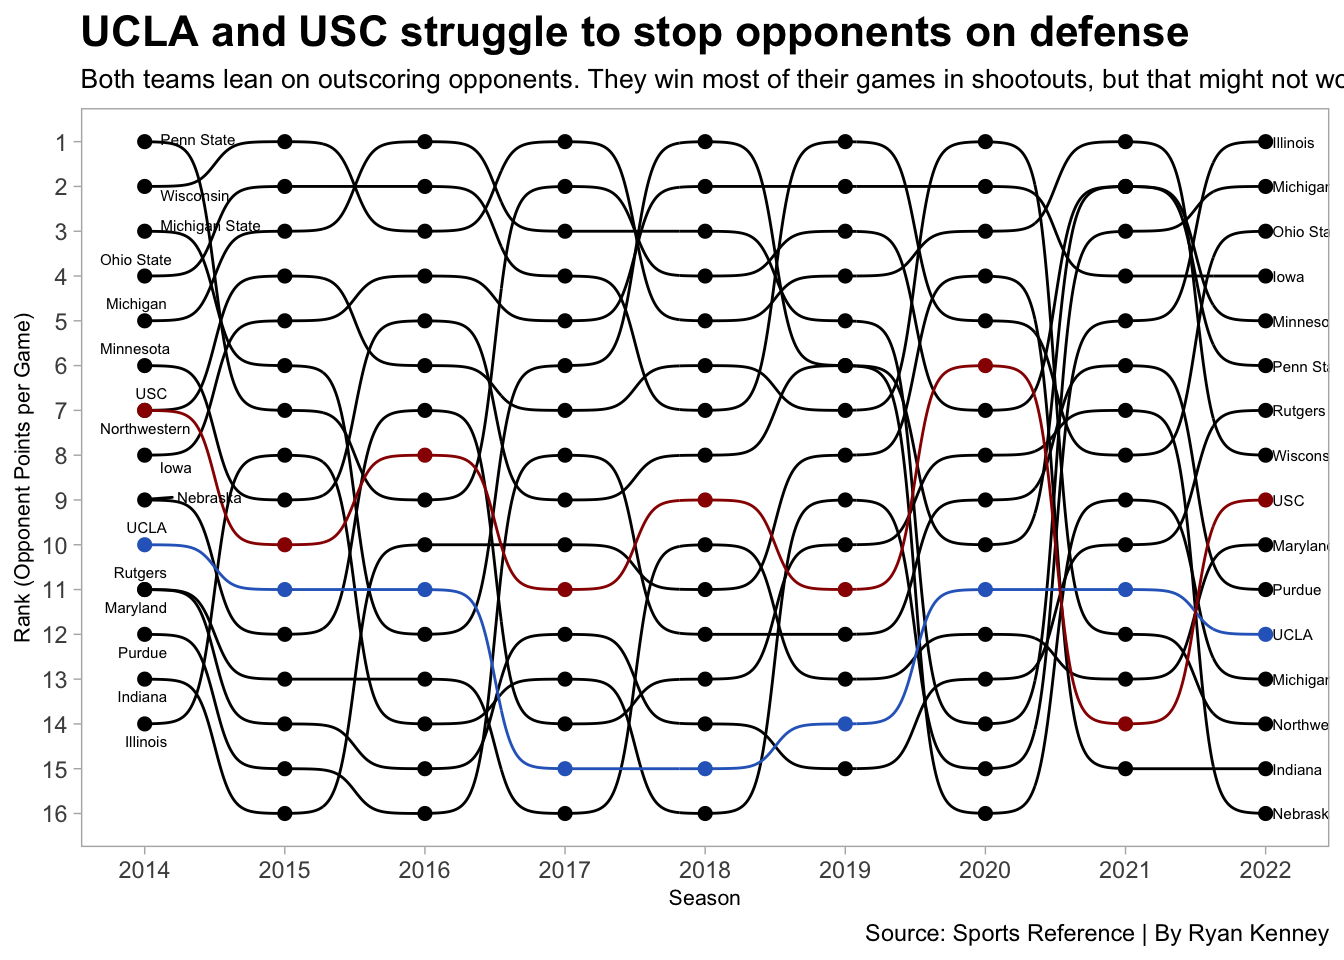
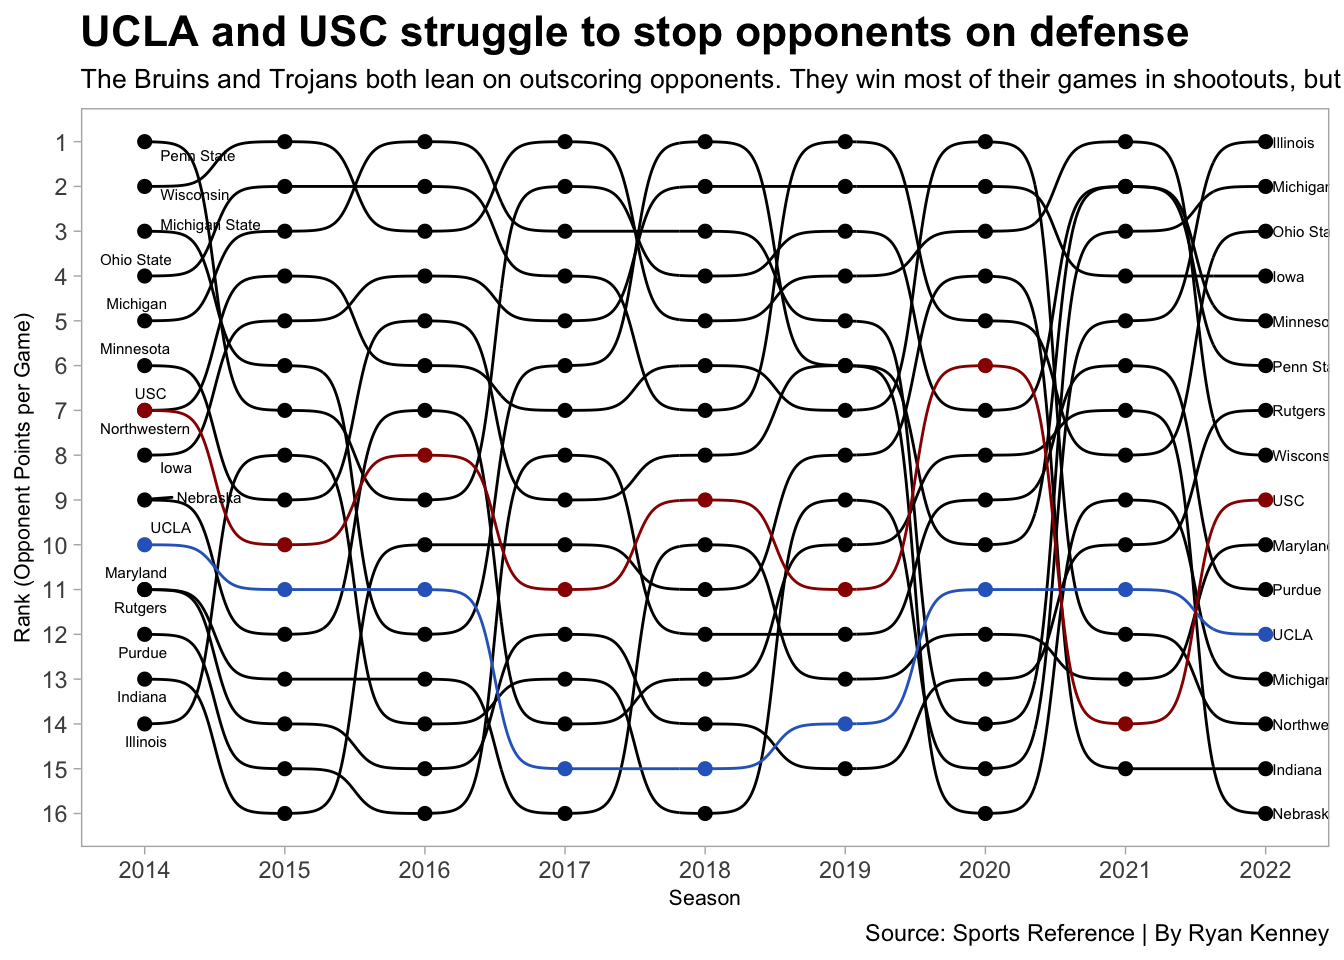
again

diff --git a/posts/ucla-and-usc-meet-big-ten-style-football/index.html b/posts/ucla-and-usc-meet-big-ten-style-football/index.html
@@ -344,7 +344,7 @@ code span.wa { color: #60a0b0; font-weight: bold; font-style: italic; } /* Warni
 <span id="cb2-20"><a href="#cb2-20" aria-hidden="true" tabindex="-1"></a>  </span>
 <span id="cb2-21"><a href="#cb2-21" aria-hidden="true" tabindex="-1"></a>  <span class="fu">scale_y_reverse</span>(<span class="at">breaks=</span><span class="fu">c</span>(<span class="dv">1</span>,<span class="dv">2</span>,<span class="dv">3</span>,<span class="dv">4</span>,<span class="dv">5</span>,<span class="dv">6</span>,<span class="dv">7</span>,<span class="dv">8</span>,<span class="dv">9</span>,<span class="dv">10</span>,<span class="dv">11</span>,<span class="dv">12</span>,<span class="dv">13</span>,<span class="dv">14</span>,<span class="dv">15</span>,<span class="dv">16</span>)) <span class="sc">+</span></span>
 <span id="cb2-22"><a href="#cb2-22" aria-hidden="true" tabindex="-1"></a>  </span>
-<span id="cb2-23"><a href="#cb2-23" aria-hidden="true" tabindex="-1"></a>  <span class="fu">labs</span>(<span class="at">title =</span> <span class="st">"UCLA and USC struggle to stop opponents on defense "</span>, <span class="at">subtitle=</span><span class="st">"Both teams lean on outscoring opponents. They win most of their games in shootouts, but that might not work against some of the stifling Big Ten defenses."</span>, <span class="at">y=</span><span class="st">"Rank (Opponent Points per Game)"</span>, <span class="at">x=</span><span class="st">"Season"</span>, <span class="at">caption=</span><span class="st">"Source: Sports Reference | By Ryan Kenney"</span>) <span class="sc">+</span></span>
+<span id="cb2-23"><a href="#cb2-23" aria-hidden="true" tabindex="-1"></a>  <span class="fu">labs</span>(<span class="at">title =</span> <span class="st">"UCLA and USC struggle to stop opponents on defense "</span>, <span class="at">subtitle=</span><span class="st">"The Bruins and Trojans both lean on outscoring opponents. They win most of their games in shootouts, but that might not work against some of the stifling Big Ten defenses."</span>, <span class="at">y=</span><span class="st">"Rank (Opponent Points per Game)"</span>, <span class="at">x=</span><span class="st">"Season"</span>, <span class="at">caption=</span><span class="st">"Source: Sports Reference | By Ryan Kenney"</span>) <span class="sc">+</span></span>
 <span id="cb2-24"><a href="#cb2-24" aria-hidden="true" tabindex="-1"></a>  </span>
 <span id="cb2-25"><a href="#cb2-25" aria-hidden="true" tabindex="-1"></a><span class="fu">theme_light</span>()<span class="sc">+</span></span>
 <span id="cb2-26"><a href="#cb2-26" aria-hidden="true" tabindex="-1"></a> <span class="fu">theme</span>(</span>
@@ -359,6 +359,10 @@ code span.wa { color: #60a0b0; font-weight: bold; font-style: italic; } /* Warni
 <div class="cell-output-display">
 <p><img src="index_files/figure-html/unnamed-chunk-2-1.png" class="img-fluid" width="672"></p>
 </div>
+<details>
+<summary>Code</summary>
+<div class="sourceCode cell-code" id="cb3"><pre class="sourceCode r code-with-copy"><code class="sourceCode r"><span id="cb3-1"><a href="#cb3-1" aria-hidden="true" tabindex="-1"></a>  <span class="fu">options</span>(<span class="at">repr.plot.width=</span><span class="dv">23</span>)</span></code><button title="Copy to Clipboard" class="code-copy-button"><i class="bi"></i></button></pre></div>
+</details>
 </div>
 <p>Not too great. UCLA consistently hangs out with the Big Ten defenses that give up the most points per game. USC isn’t much better, peaking at sixth-best in 2020 before plummeting to the second-worst in 2021.</p>
 <p>All of a sudden, it’s not looking as promising for the newcomers. Plus, many argue the Pac-12 is a step down in competition, so these aren’t even fair comparisons in the first place. Pac-12 teams have struggled to take the leap into elite territory. Only one team from the conference has made the College Football Playoff since its start, and it was the Oregon Ducks in the the Playoff’s first year (2014). Ironically, the Ducks fell in a 22-point loss to the Big Ten’s very own Ohio State Buckeyes.</p>
@@ -366,53 +370,53 @@ code span.wa { color: #60a0b0; font-weight: bold; font-style: italic; } /* Warni
 <div class="cell">
 <details>
 <summary>Code</summary>
-<div class="sourceCode cell-code" id="cb3"><pre class="sourceCode r code-with-copy"><code class="sourceCode r"><span id="cb3-1"><a href="#cb3-1" aria-hidden="true" tabindex="-1"></a>ucla <span class="ot">&lt;-</span> bigten22 <span class="sc">%&gt;%</span> <span class="fu">filter</span>(Team <span class="sc">==</span> <span class="st">"UCLA"</span>)</span>
-<span id="cb3-2"><a href="#cb3-2" aria-hidden="true" tabindex="-1"></a>usc <span class="ot">&lt;-</span> bigten22 <span class="sc">%&gt;%</span> <span class="fu">filter</span>(Team <span class="sc">==</span> <span class="st">"USC"</span>)</span>
-<span id="cb3-3"><a href="#cb3-3" aria-hidden="true" tabindex="-1"></a></span>
-<span id="cb3-4"><a href="#cb3-4" aria-hidden="true" tabindex="-1"></a><span class="fu">ggplot</span>() <span class="sc">+</span> </span>
-<span id="cb3-5"><a href="#cb3-5" aria-hidden="true" tabindex="-1"></a>  <span class="fu">geom_point</span>(</span>
-<span id="cb3-6"><a href="#cb3-6" aria-hidden="true" tabindex="-1"></a>    <span class="at">data=</span>bigten22, </span>
-<span id="cb3-7"><a href="#cb3-7" aria-hidden="true" tabindex="-1"></a>    <span class="fu">aes</span>(<span class="at">x=</span>SRS, <span class="at">y=</span>SOS, <span class="at">size=</span>W), </span>
-<span id="cb3-8"><a href="#cb3-8" aria-hidden="true" tabindex="-1"></a>    <span class="at">color=</span><span class="st">"black"</span>, </span>
-<span id="cb3-9"><a href="#cb3-9" aria-hidden="true" tabindex="-1"></a>    <span class="at">alpha=</span>.<span class="dv">3</span>) <span class="sc">+</span> </span>
-<span id="cb3-10"><a href="#cb3-10" aria-hidden="true" tabindex="-1"></a>  <span class="fu">geom_point</span>(</span>
-<span id="cb3-11"><a href="#cb3-11" aria-hidden="true" tabindex="-1"></a>    <span class="at">data=</span>bigten22, </span>
-<span id="cb3-12"><a href="#cb3-12" aria-hidden="true" tabindex="-1"></a>    <span class="fu">aes</span>(<span class="at">x=</span>SRS, <span class="at">y=</span>SOS, <span class="at">size=</span>W), </span>
-<span id="cb3-13"><a href="#cb3-13" aria-hidden="true" tabindex="-1"></a>    <span class="at">color=</span><span class="st">"gray25"</span>) <span class="sc">+</span> </span>
-<span id="cb3-14"><a href="#cb3-14" aria-hidden="true" tabindex="-1"></a>  <span class="fu">geom_point</span>(</span>
-<span id="cb3-15"><a href="#cb3-15" aria-hidden="true" tabindex="-1"></a>    <span class="at">data=</span>ucla, </span>
-<span id="cb3-16"><a href="#cb3-16" aria-hidden="true" tabindex="-1"></a>    <span class="fu">aes</span>(<span class="at">x=</span>SRS, <span class="at">y=</span>SOS, <span class="at">size=</span>W), </span>
-<span id="cb3-17"><a href="#cb3-17" aria-hidden="true" tabindex="-1"></a>    <span class="at">color=</span><span class="st">"#2D68C4"</span>) <span class="sc">+</span> </span>
-<span id="cb3-18"><a href="#cb3-18" aria-hidden="true" tabindex="-1"></a>  <span class="fu">geom_point</span>(</span>
-<span id="cb3-19"><a href="#cb3-19" aria-hidden="true" tabindex="-1"></a>    <span class="at">data=</span>usc, </span>
-<span id="cb3-20"><a href="#cb3-20" aria-hidden="true" tabindex="-1"></a>    <span class="fu">aes</span>(<span class="at">x=</span>SRS, <span class="at">y=</span>SOS, <span class="at">size=</span>W), </span>
-<span id="cb3-21"><a href="#cb3-21" aria-hidden="true" tabindex="-1"></a>    <span class="at">color=</span><span class="st">"#990000"</span>) <span class="sc">+</span> </span>
-<span id="cb3-22"><a href="#cb3-22" aria-hidden="true" tabindex="-1"></a>  <span class="fu">geom_vline</span>(<span class="at">xintercept =</span> <span class="fl">7.1025</span>) <span class="sc">+</span> </span>
-<span id="cb3-23"><a href="#cb3-23" aria-hidden="true" tabindex="-1"></a>  <span class="fu">geom_hline</span>(<span class="at">yintercept =</span> <span class="fl">0.97125</span>) <span class="sc">+</span></span>
-<span id="cb3-24"><a href="#cb3-24" aria-hidden="true" tabindex="-1"></a>  <span class="fu">geom_text</span>(<span class="fu">aes</span>(<span class="at">x=</span><span class="fl">20.5</span>, <span class="at">y=</span><span class="dv">6</span>, <span class="at">label=</span><span class="st">"Good SRS, Good SOS"</span>), <span class="at">color=</span><span class="st">"blue"</span>) <span class="sc">+</span></span>
-<span id="cb3-25"><a href="#cb3-25" aria-hidden="true" tabindex="-1"></a>  <span class="fu">geom_text</span>(<span class="fu">aes</span>(<span class="at">x=</span><span class="sc">-</span><span class="fl">4.5</span>, <span class="at">y=</span><span class="sc">-</span><span class="fl">2.8</span>, <span class="at">label=</span><span class="st">"Bad SRS, Bad SOS"</span>), <span class="at">color=</span><span class="st">"blue"</span>) <span class="sc">+</span></span>
-<span id="cb3-26"><a href="#cb3-26" aria-hidden="true" tabindex="-1"></a>  <span class="fu">geom_text_repel</span>(</span>
-<span id="cb3-27"><a href="#cb3-27" aria-hidden="true" tabindex="-1"></a>    <span class="at">data=</span>bigten22, </span>
-<span id="cb3-28"><a href="#cb3-28" aria-hidden="true" tabindex="-1"></a>    <span class="fu">aes</span>(<span class="at">x=</span>SRS, <span class="at">y=</span>SOS, <span class="at">label=</span>Team)</span>
-<span id="cb3-29"><a href="#cb3-29" aria-hidden="true" tabindex="-1"></a>  ) <span class="sc">+</span></span>
-<span id="cb3-30"><a href="#cb3-30" aria-hidden="true" tabindex="-1"></a>  <span class="fu">geom_encircle</span>(<span class="at">data=</span>usc, <span class="fu">aes</span>(<span class="at">x=</span>SRS<span class="fl">-0.2</span>, <span class="at">y=</span>SOS), <span class="at">s_shape=</span>.<span class="dv">01</span>, <span class="at">expand=</span>.<span class="dv">0000000001</span>, <span class="at">colour=</span><span class="st">"red"</span>) <span class="sc">+</span> </span>
-<span id="cb3-31"><a href="#cb3-31" aria-hidden="true" tabindex="-1"></a>  </span>
-<span id="cb3-32"><a href="#cb3-32" aria-hidden="true" tabindex="-1"></a>   <span class="fu">labs</span>(</span>
-<span id="cb3-33"><a href="#cb3-33" aria-hidden="true" tabindex="-1"></a>    <span class="at">x=</span><span class="st">"Simple Rating"</span>, </span>
-<span id="cb3-34"><a href="#cb3-34" aria-hidden="true" tabindex="-1"></a>    <span class="at">y=</span><span class="st">"Strength of Schedule"</span>, </span>
-<span id="cb3-35"><a href="#cb3-35" aria-hidden="true" tabindex="-1"></a>    <span class="at">title=</span><span class="st">"USC is passing tough tests this season"</span>, </span>
-<span id="cb3-36"><a href="#cb3-36" aria-hidden="true" tabindex="-1"></a>    <span class="at">subtitle=</span><span class="st">"USC has won six of seven games with a harder strength of schedule than any Big Ten team. "</span>, </span>
-<span id="cb3-37"><a href="#cb3-37" aria-hidden="true" tabindex="-1"></a>    <span class="at">caption=</span><span class="st">"Source: Sports Reference | By Ryan Kenney"</span>,</span>
-<span id="cb3-38"><a href="#cb3-38" aria-hidden="true" tabindex="-1"></a>    <span class="at">size=</span><span class="st">"Wins"</span></span>
-<span id="cb3-39"><a href="#cb3-39" aria-hidden="true" tabindex="-1"></a>    ) <span class="sc">+</span></span>
-<span id="cb3-40"><a href="#cb3-40" aria-hidden="true" tabindex="-1"></a>  </span>
-<span id="cb3-41"><a href="#cb3-41" aria-hidden="true" tabindex="-1"></a>  <span class="fu">theme_light</span>() <span class="sc">+</span></span>
-<span id="cb3-42"><a href="#cb3-42" aria-hidden="true" tabindex="-1"></a>  <span class="fu">theme</span>(</span>
-<span id="cb3-43"><a href="#cb3-43" aria-hidden="true" tabindex="-1"></a>    <span class="at">plot.title =</span> <span class="fu">element_text</span>(<span class="at">size =</span> <span class="dv">16</span>, <span class="at">face =</span> <span class="st">"bold"</span>),</span>
-<span id="cb3-44"><a href="#cb3-44" aria-hidden="true" tabindex="-1"></a>    <span class="at">axis.title =</span> <span class="fu">element_text</span>(<span class="at">size =</span> <span class="dv">8</span>),</span>
-<span id="cb3-45"><a href="#cb3-45" aria-hidden="true" tabindex="-1"></a>    <span class="at">plot.subtitle =</span> <span class="fu">element_text</span>(<span class="at">size =</span> <span class="dv">10</span>),</span>
-<span id="cb3-46"><a href="#cb3-46" aria-hidden="true" tabindex="-1"></a>    <span class="at">panel.grid.minor =</span> <span class="fu">element_blank</span>()</span>
-<span id="cb3-47"><a href="#cb3-47" aria-hidden="true" tabindex="-1"></a>  )</span></code><button title="Copy to Clipboard" class="code-copy-button"><i class="bi"></i></button></pre></div>
+<div class="sourceCode cell-code" id="cb4"><pre class="sourceCode r code-with-copy"><code class="sourceCode r"><span id="cb4-1"><a href="#cb4-1" aria-hidden="true" tabindex="-1"></a>ucla <span class="ot">&lt;-</span> bigten22 <span class="sc">%&gt;%</span> <span class="fu">filter</span>(Team <span class="sc">==</span> <span class="st">"UCLA"</span>)</span>
+<span id="cb4-2"><a href="#cb4-2" aria-hidden="true" tabindex="-1"></a>usc <span class="ot">&lt;-</span> bigten22 <span class="sc">%&gt;%</span> <span class="fu">filter</span>(Team <span class="sc">==</span> <span class="st">"USC"</span>)</span>
+<span id="cb4-3"><a href="#cb4-3" aria-hidden="true" tabindex="-1"></a></span>
+<span id="cb4-4"><a href="#cb4-4" aria-hidden="true" tabindex="-1"></a><span class="fu">ggplot</span>() <span class="sc">+</span> </span>
+<span id="cb4-5"><a href="#cb4-5" aria-hidden="true" tabindex="-1"></a>  <span class="fu">geom_point</span>(</span>
+<span id="cb4-6"><a href="#cb4-6" aria-hidden="true" tabindex="-1"></a>    <span class="at">data=</span>bigten22, </span>
+<span id="cb4-7"><a href="#cb4-7" aria-hidden="true" tabindex="-1"></a>    <span class="fu">aes</span>(<span class="at">x=</span>SRS, <span class="at">y=</span>SOS, <span class="at">size=</span>W), </span>
+<span id="cb4-8"><a href="#cb4-8" aria-hidden="true" tabindex="-1"></a>    <span class="at">color=</span><span class="st">"black"</span>, </span>
+<span id="cb4-9"><a href="#cb4-9" aria-hidden="true" tabindex="-1"></a>    <span class="at">alpha=</span>.<span class="dv">3</span>) <span class="sc">+</span> </span>
+<span id="cb4-10"><a href="#cb4-10" aria-hidden="true" tabindex="-1"></a>  <span class="fu">geom_point</span>(</span>
+<span id="cb4-11"><a href="#cb4-11" aria-hidden="true" tabindex="-1"></a>    <span class="at">data=</span>bigten22, </span>
+<span id="cb4-12"><a href="#cb4-12" aria-hidden="true" tabindex="-1"></a>    <span class="fu">aes</span>(<span class="at">x=</span>SRS, <span class="at">y=</span>SOS, <span class="at">size=</span>W), </span>
+<span id="cb4-13"><a href="#cb4-13" aria-hidden="true" tabindex="-1"></a>    <span class="at">color=</span><span class="st">"gray25"</span>) <span class="sc">+</span> </span>
+<span id="cb4-14"><a href="#cb4-14" aria-hidden="true" tabindex="-1"></a>  <span class="fu">geom_point</span>(</span>
+<span id="cb4-15"><a href="#cb4-15" aria-hidden="true" tabindex="-1"></a>    <span class="at">data=</span>ucla, </span>
+<span id="cb4-16"><a href="#cb4-16" aria-hidden="true" tabindex="-1"></a>    <span class="fu">aes</span>(<span class="at">x=</span>SRS, <span class="at">y=</span>SOS, <span class="at">size=</span>W), </span>
+<span id="cb4-17"><a href="#cb4-17" aria-hidden="true" tabindex="-1"></a>    <span class="at">color=</span><span class="st">"#2D68C4"</span>) <span class="sc">+</span> </span>
+<span id="cb4-18"><a href="#cb4-18" aria-hidden="true" tabindex="-1"></a>  <span class="fu">geom_point</span>(</span>
+<span id="cb4-19"><a href="#cb4-19" aria-hidden="true" tabindex="-1"></a>    <span class="at">data=</span>usc, </span>
+<span id="cb4-20"><a href="#cb4-20" aria-hidden="true" tabindex="-1"></a>    <span class="fu">aes</span>(<span class="at">x=</span>SRS, <span class="at">y=</span>SOS, <span class="at">size=</span>W), </span>
+<span id="cb4-21"><a href="#cb4-21" aria-hidden="true" tabindex="-1"></a>    <span class="at">color=</span><span class="st">"#990000"</span>) <span class="sc">+</span> </span>
+<span id="cb4-22"><a href="#cb4-22" aria-hidden="true" tabindex="-1"></a>  <span class="fu">geom_vline</span>(<span class="at">xintercept =</span> <span class="fl">7.1025</span>) <span class="sc">+</span> </span>
+<span id="cb4-23"><a href="#cb4-23" aria-hidden="true" tabindex="-1"></a>  <span class="fu">geom_hline</span>(<span class="at">yintercept =</span> <span class="fl">0.97125</span>) <span class="sc">+</span></span>
+<span id="cb4-24"><a href="#cb4-24" aria-hidden="true" tabindex="-1"></a>  <span class="fu">geom_text</span>(<span class="fu">aes</span>(<span class="at">x=</span><span class="fl">20.5</span>, <span class="at">y=</span><span class="dv">6</span>, <span class="at">label=</span><span class="st">"Good SRS, Good SOS"</span>), <span class="at">color=</span><span class="st">"blue"</span>) <span class="sc">+</span></span>
+<span id="cb4-25"><a href="#cb4-25" aria-hidden="true" tabindex="-1"></a>  <span class="fu">geom_text</span>(<span class="fu">aes</span>(<span class="at">x=</span><span class="sc">-</span><span class="fl">4.5</span>, <span class="at">y=</span><span class="sc">-</span><span class="fl">2.8</span>, <span class="at">label=</span><span class="st">"Bad SRS, Bad SOS"</span>), <span class="at">color=</span><span class="st">"blue"</span>) <span class="sc">+</span></span>
+<span id="cb4-26"><a href="#cb4-26" aria-hidden="true" tabindex="-1"></a>  <span class="fu">geom_text_repel</span>(</span>
+<span id="cb4-27"><a href="#cb4-27" aria-hidden="true" tabindex="-1"></a>    <span class="at">data=</span>bigten22, </span>
+<span id="cb4-28"><a href="#cb4-28" aria-hidden="true" tabindex="-1"></a>    <span class="fu">aes</span>(<span class="at">x=</span>SRS, <span class="at">y=</span>SOS, <span class="at">label=</span>Team)</span>
+<span id="cb4-29"><a href="#cb4-29" aria-hidden="true" tabindex="-1"></a>  ) <span class="sc">+</span></span>
+<span id="cb4-30"><a href="#cb4-30" aria-hidden="true" tabindex="-1"></a>  <span class="fu">geom_encircle</span>(<span class="at">data=</span>usc, <span class="fu">aes</span>(<span class="at">x=</span>SRS<span class="fl">-0.2</span>, <span class="at">y=</span>SOS), <span class="at">s_shape=</span>.<span class="dv">01</span>, <span class="at">expand=</span>.<span class="dv">0000000001</span>, <span class="at">colour=</span><span class="st">"red"</span>) <span class="sc">+</span> </span>
+<span id="cb4-31"><a href="#cb4-31" aria-hidden="true" tabindex="-1"></a>  </span>
+<span id="cb4-32"><a href="#cb4-32" aria-hidden="true" tabindex="-1"></a>   <span class="fu">labs</span>(</span>
+<span id="cb4-33"><a href="#cb4-33" aria-hidden="true" tabindex="-1"></a>    <span class="at">x=</span><span class="st">"Simple Rating"</span>, </span>
+<span id="cb4-34"><a href="#cb4-34" aria-hidden="true" tabindex="-1"></a>    <span class="at">y=</span><span class="st">"Strength of Schedule"</span>, </span>
+<span id="cb4-35"><a href="#cb4-35" aria-hidden="true" tabindex="-1"></a>    <span class="at">title=</span><span class="st">"USC is passing tough tests this season"</span>, </span>
+<span id="cb4-36"><a href="#cb4-36" aria-hidden="true" tabindex="-1"></a>    <span class="at">subtitle=</span><span class="st">"USC has won six of seven games with a harder strength of schedule than any Big Ten team. "</span>, </span>
+<span id="cb4-37"><a href="#cb4-37" aria-hidden="true" tabindex="-1"></a>    <span class="at">caption=</span><span class="st">"Source: Sports Reference | By Ryan Kenney"</span>,</span>
+<span id="cb4-38"><a href="#cb4-38" aria-hidden="true" tabindex="-1"></a>    <span class="at">size=</span><span class="st">"Wins"</span></span>
+<span id="cb4-39"><a href="#cb4-39" aria-hidden="true" tabindex="-1"></a>    ) <span class="sc">+</span></span>
+<span id="cb4-40"><a href="#cb4-40" aria-hidden="true" tabindex="-1"></a>  </span>
+<span id="cb4-41"><a href="#cb4-41" aria-hidden="true" tabindex="-1"></a>  <span class="fu">theme_light</span>() <span class="sc">+</span></span>
+<span id="cb4-42"><a href="#cb4-42" aria-hidden="true" tabindex="-1"></a>  <span class="fu">theme</span>(</span>
+<span id="cb4-43"><a href="#cb4-43" aria-hidden="true" tabindex="-1"></a>    <span class="at">plot.title =</span> <span class="fu">element_text</span>(<span class="at">size =</span> <span class="dv">16</span>, <span class="at">face =</span> <span class="st">"bold"</span>),</span>
+<span id="cb4-44"><a href="#cb4-44" aria-hidden="true" tabindex="-1"></a>    <span class="at">axis.title =</span> <span class="fu">element_text</span>(<span class="at">size =</span> <span class="dv">8</span>),</span>
+<span id="cb4-45"><a href="#cb4-45" aria-hidden="true" tabindex="-1"></a>    <span class="at">plot.subtitle =</span> <span class="fu">element_text</span>(<span class="at">size =</span> <span class="dv">10</span>),</span>
+<span id="cb4-46"><a href="#cb4-46" aria-hidden="true" tabindex="-1"></a>    <span class="at">panel.grid.minor =</span> <span class="fu">element_blank</span>()</span>
+<span id="cb4-47"><a href="#cb4-47" aria-hidden="true" tabindex="-1"></a>  )</span></code><button title="Copy to Clipboard" class="code-copy-button"><i class="bi"></i></button></pre></div>
 </details>
 <div class="cell-output-display">
 <p><img src="index_files/figure-html/unnamed-chunk-3-1.png" class="img-fluid" width="672"></p>
